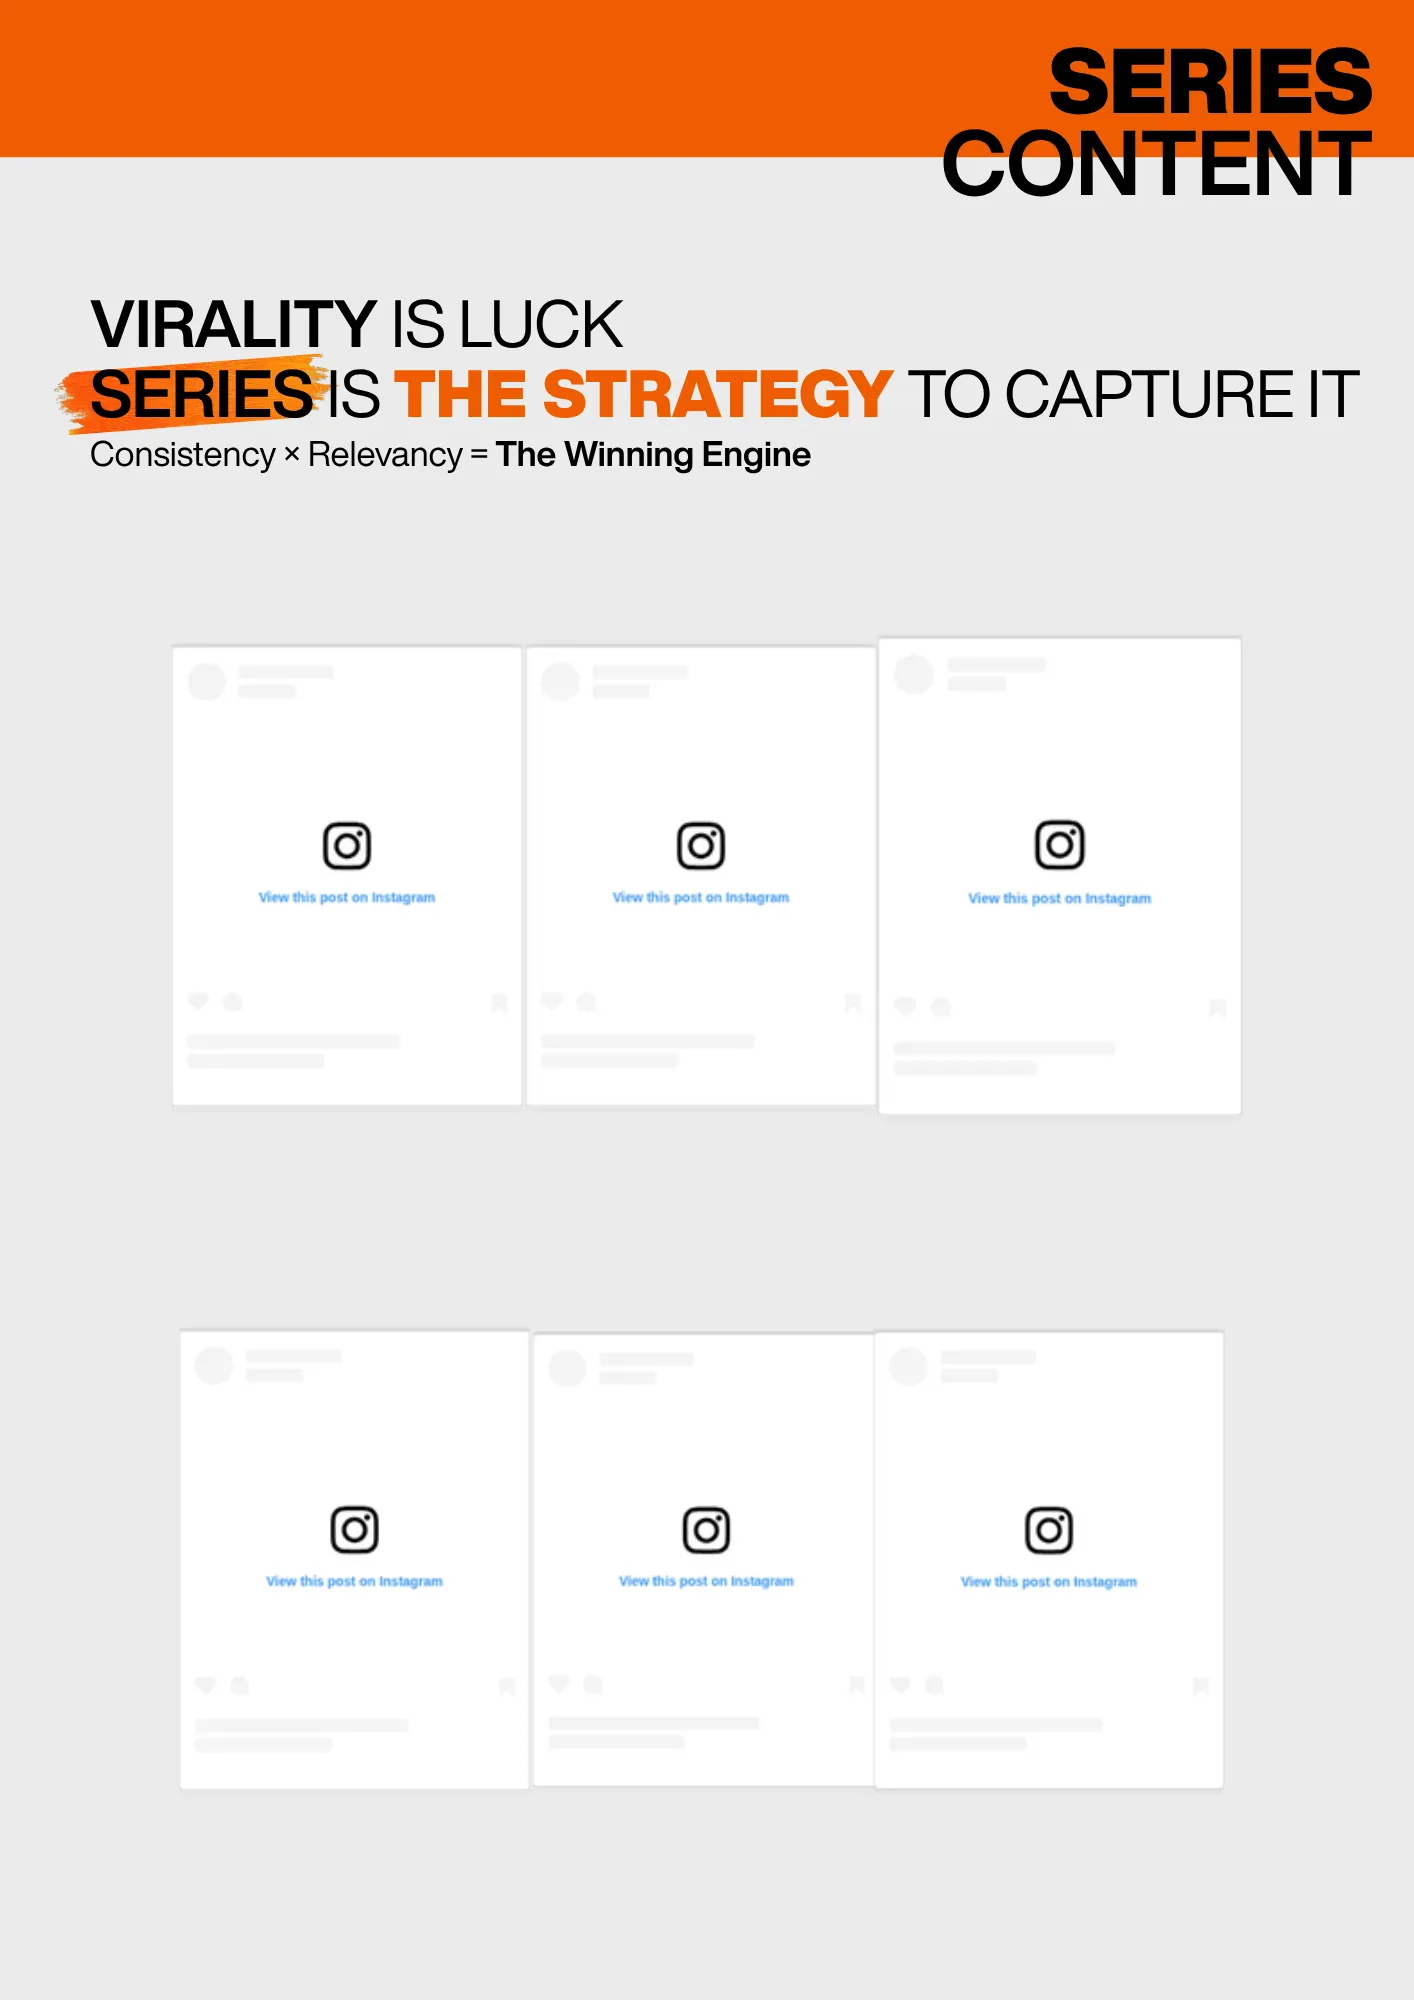
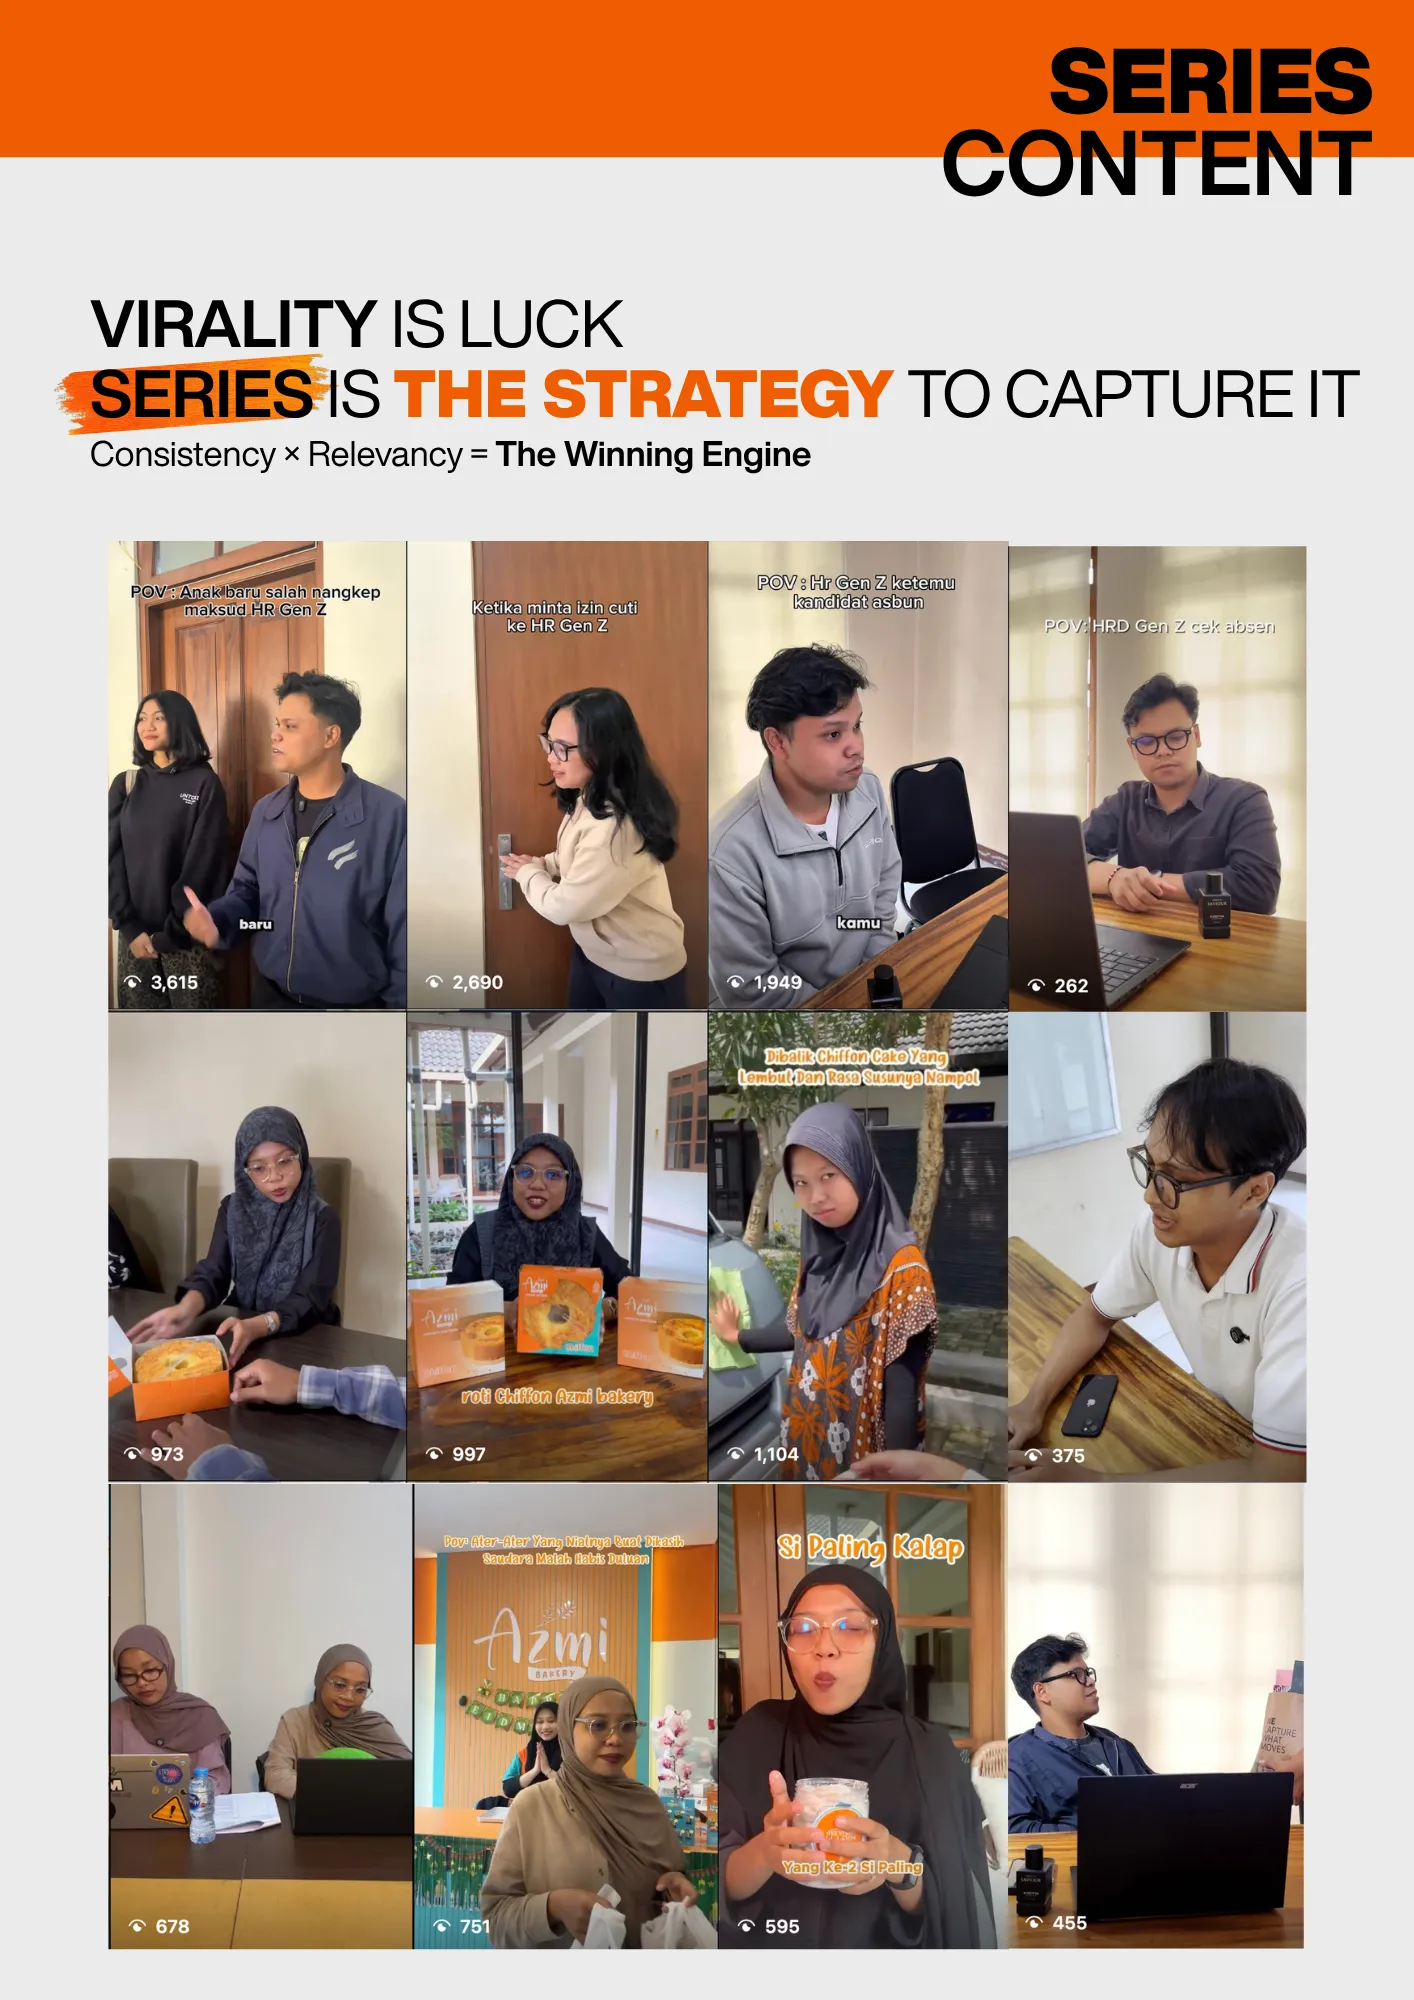
feat: implement NotFound page and enhance loading indicators in CaseStudies and OurWorks components

diff --git a/app/not-found.tsx b/app/not-found.tsx
@@ -1,0 +1,48 @@
+import Link from "next/link";
+
+export default function NotFound() {
+  return (
+    <main className="min-h-screen w-full flex items-center justify-center px-4 py-12">
+      <div className="flex flex-col items-center justify-center gap-6 text-center max-w-2xl">
+        {/* 404 Number */}
+        <div className="text-8xl sm:text-9xl font-zalando font-bold text-[#ff6f00]/20">
+          404
+        </div>
+
+        {/* Title */}
+        <h1 className="text-3xl sm:text-4xl lg:text-5xl font-zalando font-semibold uppercase mb-2">
+          Page Not Found
+        </h1>
+
+        {/* Description */}
+        <p className="text-base sm:text-lg text-gray-600 max-w-md">
+          Oops! We couldn't find the page you're looking for. The page might
+          have been moved or deleted.
+        </p>
+
+        {/* Buttons */}
+        <div className="flex flex-col sm:flex-row gap-4 mt-8">
+          <Link
+            href="/"
+            className="inline-flex items-center justify-center px-6 py-3 bg-[#ff6f00] text-white font-zalando font-semibold uppercase rounded-lg hover:bg-[#ff6f00]/90 transition-colors duration-300 shadow-lg"
+          >
+            Back to Home
+          </Link>
+          <Link
+            href="/services"
+            className="inline-flex items-center justify-center px-6 py-3 border-2 border-[#ff6f00] text-[#ff6f00] font-zalando font-semibold uppercase rounded-lg hover:bg-[#ff6f00]/10 transition-colors duration-300"
+          >
+            Explore Services
+          </Link>
+        </div>
+
+        {/* Decorative Element */}
+        <div className="mt-12 opacity-10">
+          <svg className="w-48 h-48" fill="currentColor" viewBox="0 0 24 24">
+            <path d="M12 2C6.48 2 2 6.48 2 12s4.48 10 10 10 10-4.48 10-10S17.52 2 12 2zm0 18c-4.41 0-8-3.59-8-8s3.59-8 8-8 8 3.59 8 8-3.59 8-8 8zm3.5-9c.83 0 1.5-.67 1.5-1.5S16.33 8 15.5 8 14 8.67 14 9.5s.67 1.5 1.5 1.5zm-7 0c.83 0 1.5-.67 1.5-1.5S9.33 8 8.5 8 7 8.67 7 9.5 7.67 11 8.5 11zm3.5 6.5c2.33 0 4.31-1.46 5.11-3.5H6.89c.8 2.04 2.78 3.5 5.11 3.5z" />
+          </svg>
+        </div>
+      </div>
+    </main>
+  );
+}

diff --git a/app/portfolio/caseStudies.tsx b/app/portfolio/caseStudies.tsx
@@ -22,6 +22,7 @@ export default function CaseStudies() {
     width: number;
     height: number;
   } | null>(null);
+  const [isLoading, setIsLoading] = useState(false);
 
   const slideVariants = {
     enter: (dir: number) => ({ y: dir > 0 ? 1000 : -1000, opacity: 0 }),
@@ -35,6 +36,7 @@ export default function CaseStudies() {
 
   const paginate = (newDirection: number) => {
     setDirection(newDirection);
+    setIsLoading(true);
     setCurrentIndex((prev) => {
       const next = prev + newDirection;
       return next < 0 ? images.length - 1 : next >= images.length ? 0 : next;
@@ -57,13 +59,18 @@ export default function CaseStudies() {
         <div className="flex flex-col items-center gap-4">
           {/* Image Container — ukuran dikunci setelah gambar pertama load */}
           <div
-            className="relative rounded-2xl shadow-2xl overflow-hidden"
+            className="relative rounded-2xl shadow-2xl overflow-hidden bg-gray-100"
             style={
               dimensions
                 ? { width: dimensions.width, height: dimensions.height }
                 : undefined
             }
           >
+            {isLoading && (
+              <div className="absolute inset-0 flex items-center justify-center bg-gray-100 z-10">
+                <div className="w-8 h-8 border-4 border-gray-300 border-t-[#ff6f00] rounded-full animate-spin" />
+              </div>
+            )}
             <AnimatePresence initial={false} custom={direction}>
               <motion.div
                 key={currentIndex}
@@ -94,6 +101,7 @@ export default function CaseStudies() {
                         height: img.offsetHeight,
                       });
                     }
+                    setIsLoading(false);
                   }}
                 />
               </motion.div>

diff --git a/app/portfolio/ourWorks.tsx b/app/portfolio/ourWorks.tsx
@@ -26,6 +26,7 @@ export default function OurWorks() {
     width: number;
     height: number;
   } | null>(null);
+  const [isLoading, setIsLoading] = useState(false);
 
   const slideVariants = {
     enter: (dir: number) => ({ y: dir > 0 ? 1000 : -1000, opacity: 0 }),
@@ -39,6 +40,7 @@ export default function OurWorks() {
 
   const paginate = (newDirection: number) => {
     setDirection(newDirection);
+    setIsLoading(true);
     setCurrentIndex((prev) => {
       const next = prev + newDirection;
       return next < 0 ? images.length - 1 : next >= images.length ? 0 : next;
@@ -61,13 +63,18 @@ export default function OurWorks() {
         <div className="flex flex-col items-center gap-4">
           {/* Image Container — ukuran dikunci setelah gambar pertama load */}
           <div
-            className="relative rounded-2xl shadow-2xl overflow-hidden"
+            className="relative rounded-2xl shadow-2xl overflow-hidden bg-gray-100"
             style={
               dimensions
                 ? { width: dimensions.width, height: dimensions.height }
                 : undefined
             }
           >
+            {isLoading && (
+              <div className="absolute inset-0 flex items-center justify-center bg-gray-100 z-10">
+                <div className="w-8 h-8 border-4 border-gray-300 border-t-[#ff6f00] rounded-full animate-spin" />
+              </div>
+            )}
             <AnimatePresence initial={false} custom={direction}>
               <motion.div
                 key={currentIndex}
@@ -98,6 +105,7 @@ export default function OurWorks() {
                         height: img.offsetHeight,
                       });
                     }
+                    setIsLoading(false);
                   }}
                 />
               </motion.div>

diff --git a/components/layouts/Footer.tsx b/components/layouts/Footer.tsx
@@ -18,12 +18,13 @@ export default async function Footer() {
           <div className="flex flex-col gap-2 text-justify">
             <div className="flex gap-2 items-center">
               <FaCircle className="size-2" />
-              <h4 className="text-sm">Headquarter Office</h4>
+              <h4 className="text-sm">Head Office</h4>
             </div>
 
             <p className="text-xs">
-              69VQ+7R7, Pikgondeng, Condongcatur, Kec. Depok, Kabupaten Sleman,
-              Daerah Istimewa Yogyakarta 55281
+              Perum, Jl. Sawitsari Jl. Bunga.5-6 blok J, Pikgondeng,
+              Condongcatur, Kec. Depok, Kabupaten Sleman, Daerah Istimewa
+              Yogyakarta 55281
             </p>
           </div>
         </div>

diff --git a/components/layouts/Header.tsx b/components/layouts/Header.tsx
@@ -19,7 +19,6 @@ export default function Header() {
   const navItems = [
     { href: "/", label: "Home" },
     { href: "/services", label: "Services" },
-    { href: "/about", label: "About" },
     {
       href: "/portfolio",
       label: "Portfolio",
@@ -28,6 +27,7 @@ export default function Header() {
         { href: "/portfolio#caseStudies", label: "Case Studies" },
       ],
     },
+    { href: "/about", label: "About" },
     { href: "/contactUs", label: "Contact" },
   ];
 
